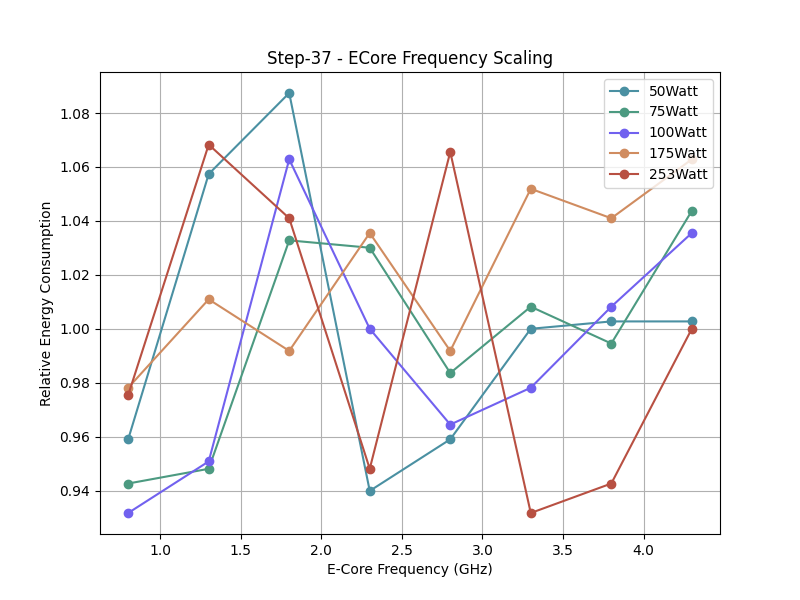
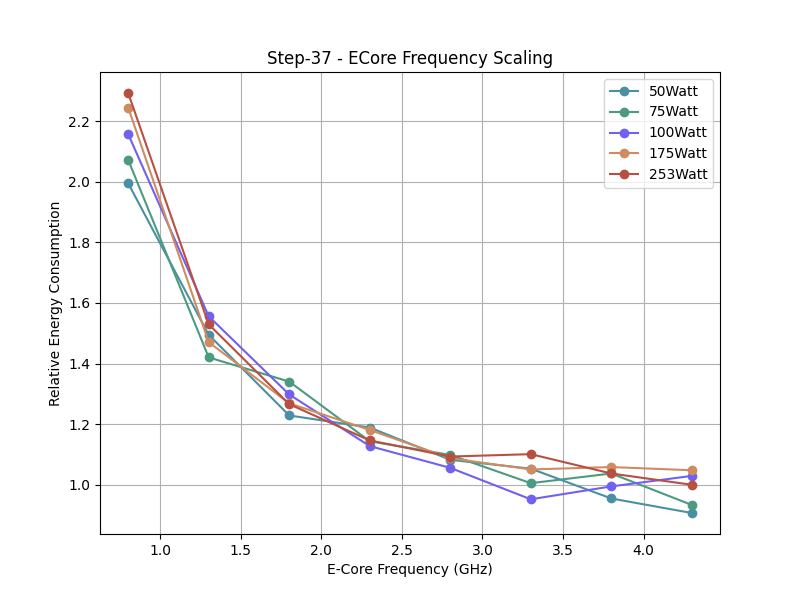
Retook values for CPUFrequency scaling and plotted the data

diff --git a/CPUFrequency.py b/CPUFrequency.py
@@ -10,7 +10,8 @@ jump_conn = Connection(jump_host)
 dest_conn = Connection(dest_host, gateway=jump_conn)
 
 # Configuration
-path = "/u/home/vit/dealii/examples/step-37/Evaluations/CPUFrequency/"
+filename = "Step-37"
+path = f"/u/home/vit/dealii/examples/{filename.lower()}/Evaluations/CPUFrequency/"
 directories = ["50Watt/", "75Watt/", "100Watt/", "175Watt/", "253Watt/"]
 
 configurations = {
@@ -88,4 +89,4 @@ process_core_scaling("P")
 process_core_scaling("E")
 
 # Plot the data
-plot.plotCPUFrequency(datasets, "Step-37")  
+plot.plotCPUFrequency(datasets, filename)  
